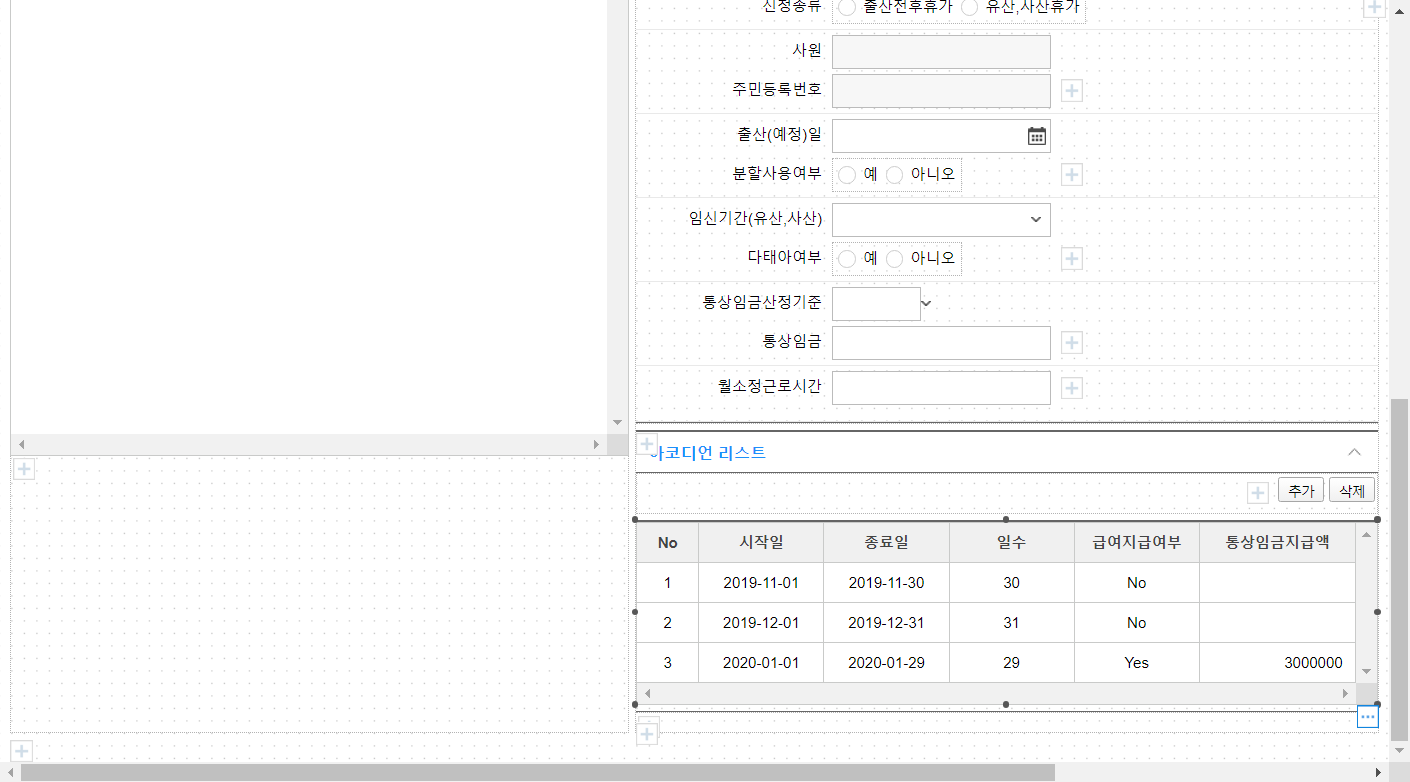
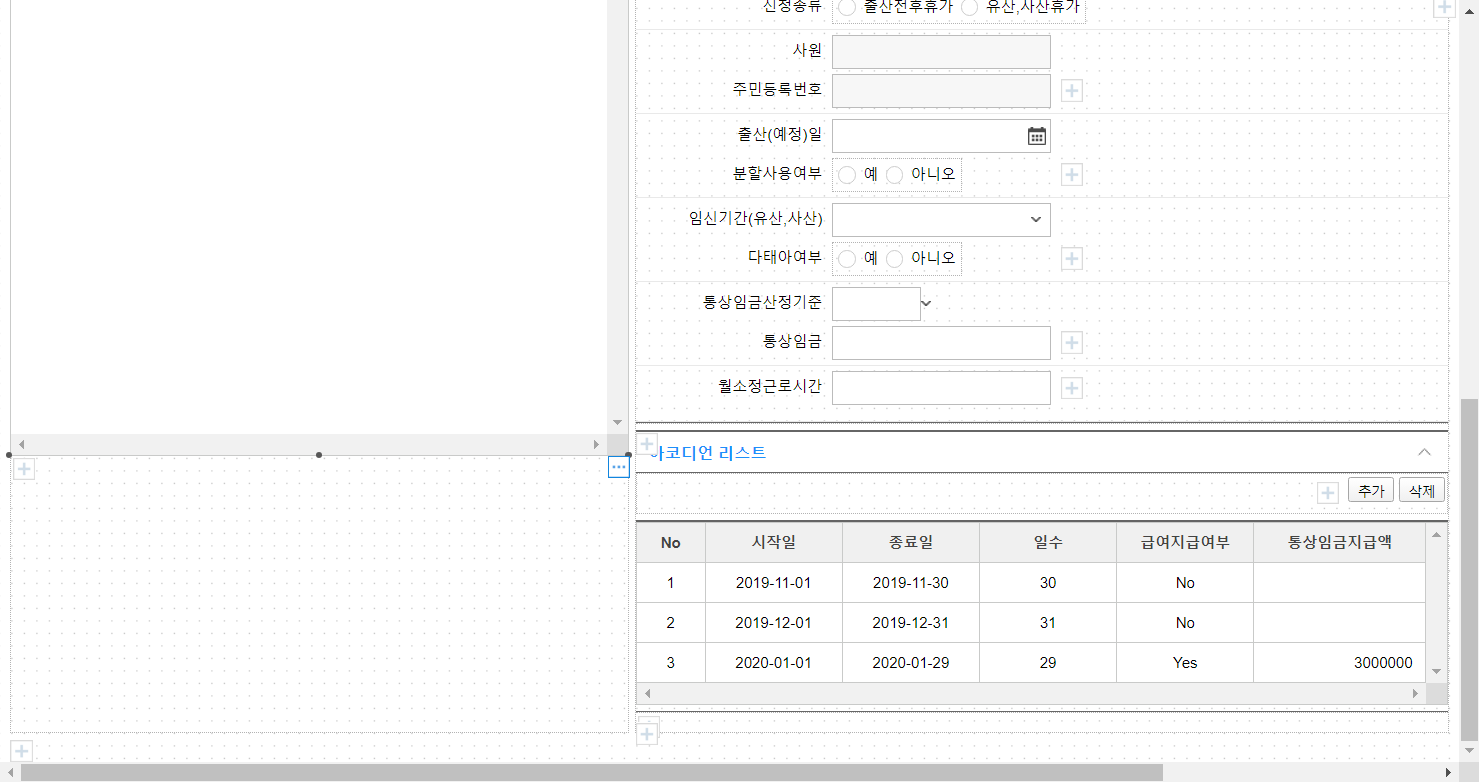
sub그리드 일수 계산 로직 추가

diff --git a/PAMMPM/bin/PAMMPM00200.html b/PAMMPM/bin/PAMMPM00200.html
@@ -1,6 +1,6 @@
-<!--##59d4a63f-07c0-4ca3-80a3-8064bbe99fd2##-->
+<!--##b87f4139-3ad5-4371-8398-b15fb076380b##-->
 <!--##PAMMPM00200##-->
-<!--##+gXLQWz5qXOv8Lw1doxm+kTlGK4w28vLFwfGQy+s/Z4=##-->
+<!--##3PFngGsUogy9F8cs2/XQDVn6GJjvxDqMwbxsdqxx4v4=##-->
 <!--
   DEWS UI/UX IDE - Build Result - v1.5
   # PageID: PAMMPM00200
@@ -910,30 +910,27 @@
         rightColCount: 0
       },
       save: /*69d0324f-9d3b-40fa-b2c7-98860320e18b*/ function (e) {
-            console.log("저장실행함");
-            // var thisGrid = e.grid; // 지금 이벤트 발생하는 그리드 선택
+            var thisGrid = e.grid; // 지금 이벤트 발생하는 그리드 선택
     
-            // // var grid=self.MtnityidnfDtl_grid;
-            // // var data1=grid.getCellValue(grid.select(), 'START_DT');
-            // // console.log('data1', data1);
+            // var grid=self.MtnityidnfDtl_grid;
+            // var data1=grid.getCellValue(grid.select(), 'START_DT');
+            // console.log('data1', data1);
     
-            // var startDate = e.row.data.START_DT; // 변경된 시작일
-            // var endDate = e.row.data.END_DT; // 변경된 종료일
+            var startDate = e.row.data.START_DT; // 변경된 시작일
+            var endDate = e.row.data.END_DT; // 변경된 종료일
     
-    
-    
-            // if (startDate != null && endDate != null) { // 둘 다 선택되면
-            //     var diff = ((endDate - startDate) / (60 * 60 * 24 * 1000)) + 1; // 시작일과 종료일의 일수 계산
-            //     if (diff > 0) {
-            //         thisGrid.setCellValue(e.row.index, 'BWRK_DY', diff, false);
-            //     } else if (diff <= 0) {
-            //         dews.ui.snackbar.warning(dews.localize.get("시작일은 종료일과 같거나 이전날짜를 선택해야 합니다.", "M0012831", '', 'PAMMPM00200'));
-            //         // console.log('e.row.index:', e.row.index);
-            //         // console.log('변경된 컬럼 이름:', e.cell.field);
-            //         thisGrid.setCellValue(e.row.index, 'BWRK_DY', 0, false); // 일수 0으로 초기화
-            //         thisGrid.setCellValue(e.row.index, e.cell.field, '', false); // 변경된 날짜 피커 초기화
-            //     }
-            // }
+            if (startDate != null && endDate != null) { // 둘 다 선택되면
+                var diff = ((endDate - startDate) / (60 * 60 * 24 * 1000)) + 1; // 시작일과 종료일의 일수 계산
+                if (diff > 0) {
+                    thisGrid.setCellValue(e.row.index, 'BWRK_DY', diff, false);
+                } else if (diff <= 0) {
+                    dews.ui.snackbar.warning(dews.localize.get("시작일은 종료일과 같거나 이전날짜를 선택해야 합니다.", "M0012831", '', 'PAMMPM00200'));
+                    // console.log('e.row.index:', e.row.index);
+                    // console.log('변경된 컬럼 이름:', e.cell.field);
+                    thisGrid.setCellValue(e.row.index, 'BWRK_DY', 0, false); // 일수 0으로 초기화
+                    thisGrid.setCellValue(e.row.index, e.cell.field, '', false); // 변경된 날짜 피커 초기화
+                }
+            }
         }
     
     });

diff --git a/PAMODM/bin/PAMODM01800.html b/PAMODM/bin/PAMODM01800.html
@@ -1,6 +1,6 @@
-<!--##c4efeab1-768d-4f2c-87df-1e455e5817d6##-->
+<!--##66cb5560-c10c-496d-8c9f-e5603021d686##-->
 <!--##PAMODM01800##-->
-<!--##HHnKQAdLc2W6afN+h544CTHs2dabOSLV0A1AftE3wns=##-->
+<!--##jS1G5VBuWr+iLTcOJYlaUt/UcxyzBMrzdUyAAllouBQ=##-->
 <!--
   DEWS UI/UX IDE - Build Result - v1.5
   # PageID: PAMODM01800
